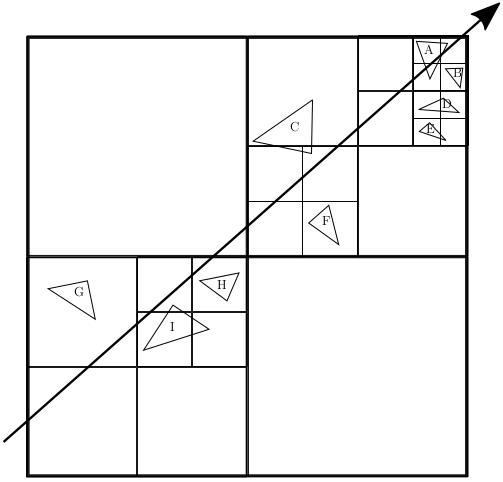
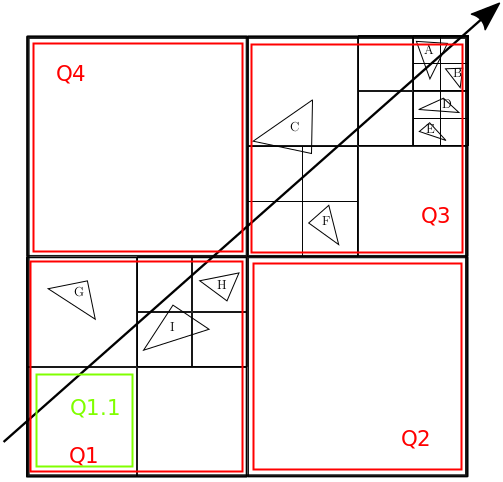
Add solution to 8a

Changed region(s): [[0.0596, 0.0622, 0.9245, 0.9959], [0.7753, 0.8714, 0.8648, 0.9336]]

diff --git a/CG/2015-Nachklausur/2015-Nachklausur.tex b/CG/2015-Nachklausur/2015-Nachklausur.tex
@@ -391,8 +391,50 @@ Die Schnitttests sind in \cref{fig:schnitttests} dargestellt.
     \label{fig:schnitttests}
 \end{figure}
 
-TODO
+Die Anzahl der Schnittests ist:
 
+\begin{itemize}
+    \item Q1 mit Strahl: Schnitt
+    \begin{itemize}
+        \item Q1.1 mit Strahl: Schnitt, aber hat kein Kind
+        \item Q1.2 mit Strahl: kein Schnitt
+        \item Q1.3 mit Strahl: Schnitt
+        \begin{itemize}
+            \item Q1.3.1 mit Strahl: Schnitt. Schnitttest mit I.
+            \item Q1.3.2 mit Strahl: kein Schnitt.
+            \item Q1.3.3 mit Strahl: Schnitt. Schnitttest mit H.
+            \item Q1.3.4 mit Strahl: Schnitt. Schnitttest mit I.
+        \end{itemize}
+        \item Q1.4 mit Strahl: Schnitt. Schnittest mit G.
+    \end{itemize}
+    \item Q2 mit Strahl: kein Schnitt
+    \item Q3 mit Strahl: Schnitt
+    \begin{itemize}
+        \item Q3.1 mit Strahl: Schnitt
+        \begin{itemize}
+            \item Q3.1.1: Schnitt.
+            \item Q3.1.2 mit Strahl: Kein Schnitt.
+            \item Q3.1.3 mit Strahl: Schnitt. Schnitttest mit C.
+            \item Q3.1.4 mit Strahl: Schnitt. Schnitttest mit C.
+        \end{itemize}
+        \item Q3.2 mit Strahl: kein Schnitt.
+        \item Q3.3 mit Strahl: Schnitt.
+        \begin{itemize}
+            \item Q3.3.1 mit Strahl: Schnitt.
+            \item Q3.3.2 mit Strahl: Kein Schnitt
+            \item Q3.3.3 mit Strahl: Schnitt
+            \begin{itemize}
+                \item Q3.3.3.1 mit Strahl: Schnitt. Schnitttest mit A.
+                \item Q3.3.3.2 mit Strahl: kein Schnitt
+                \item Q3.3.3.3 mit Strahl: Schnitt. Schnitttest mit A.
+                \item Q3.3.3.4 mit Strahl: Schnitt. Schnitttest mit A.
+            \end{itemize}
+            \item Q3.3.4 mit Strahl: Schnitt.
+        \end{itemize}
+        \item Q3.4 mit Strahl: Schnitt. Schnitttest mit C.
+    \end{itemize}
+    \item Q4 mit Strahl: Schnitt.
+\end{itemize}
 
 \subsection*{Teilaufgabe 8b}
 \begin{itemize}
